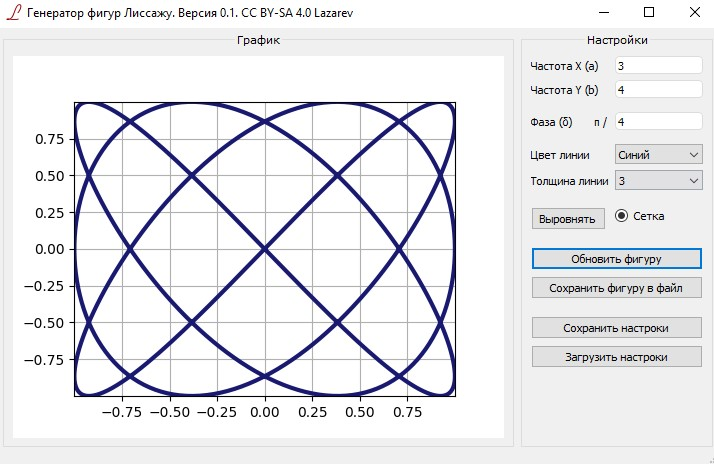
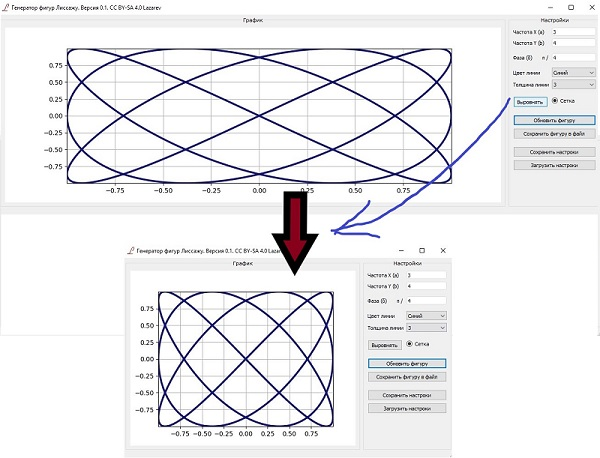
update pic and readme

Changed region(s): [[0.0, 0.0, 1.0, 1.0], [0.96, 0.0, 0.99, 0.0306]]

diff --git a/README.md b/README.md
@@ -38,3 +38,40 @@ pyinstaller --onefile --icon=files/lissajous.ico --noconsole main_lissajous.py
 ~~~
 main_lissajous.exe
 ~~~
+**Вид стартового интерфейса** 
+![Image alt](https://github.com/Laztrex/simple-graphics-lissajous/raw/master/media/main.jpg)
+
+На текущий момент доступны функции:
+* Установка частот [1; 99]  
+(но желательно, конечно, устанавливать в рамках 
+[правильных пропорций](https://cutt.ly/pkysYfO))
+* Установка сдвига фаз
+* Изменение цвета линий
+* Регулирование толщины линии
+* Вернуть окно к заданному соотношению (Выровнять)
+* Отображение сетки
+* Обновить фигуру (после измененных параметров нужно применить)
+* Сохранить картинку полученной фигуру
+* Сохранить/загрузить пресет нужной фигуры
+
+Далее функционал будет расширяться.
+
+Поменяем настройки, получим новую фигуру.
+
+**Окно интерфейса после изменения настроек**
+![Image alt](https://github.com/Laztrex/simple-graphics-lissajous/raw/master/media/main_2.jpg)
+
+**Менять цвет фигуры можно с помощью меню _Цвет линии_**
+![Image alt](https://github.com/Laztrex/simple-graphics-lissajous/raw/master/media/main_2_color.jpg)
+
+Для удобства есть свитч для отображения сетки и числовых осей
+**Вид сетки**
+![Image alt](https://github.com/Laztrex/simple-graphics-lissajous/raw/master/media/main_2_grid.jpg)
+
+Также рядом есть меню выбора толщины линии
+**Регулирование толщины линии**
+![Image alt](https://github.com/Laztrex/simple-graphics-lissajous/raw/master/media/main_2_grid_line.jpg)
+
+Окно интерфейса можно регулировать по всем направлениям.
+Однако предусмотрена кнопка _Выровнять_ для возврата к 
+стандартному соотношению 4/3
